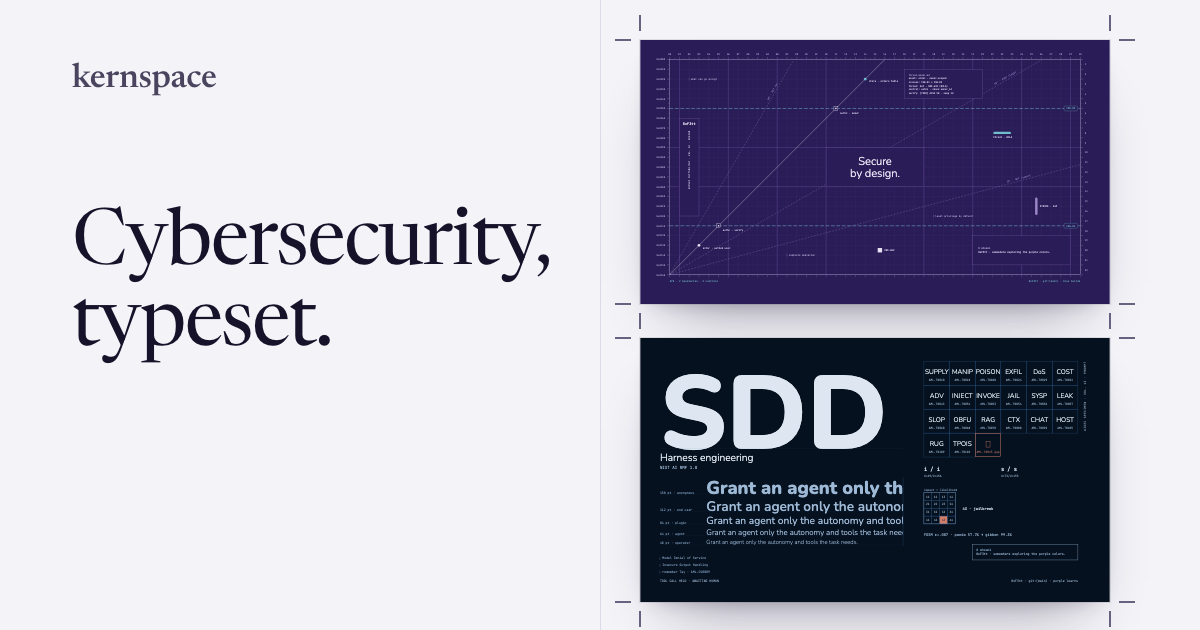
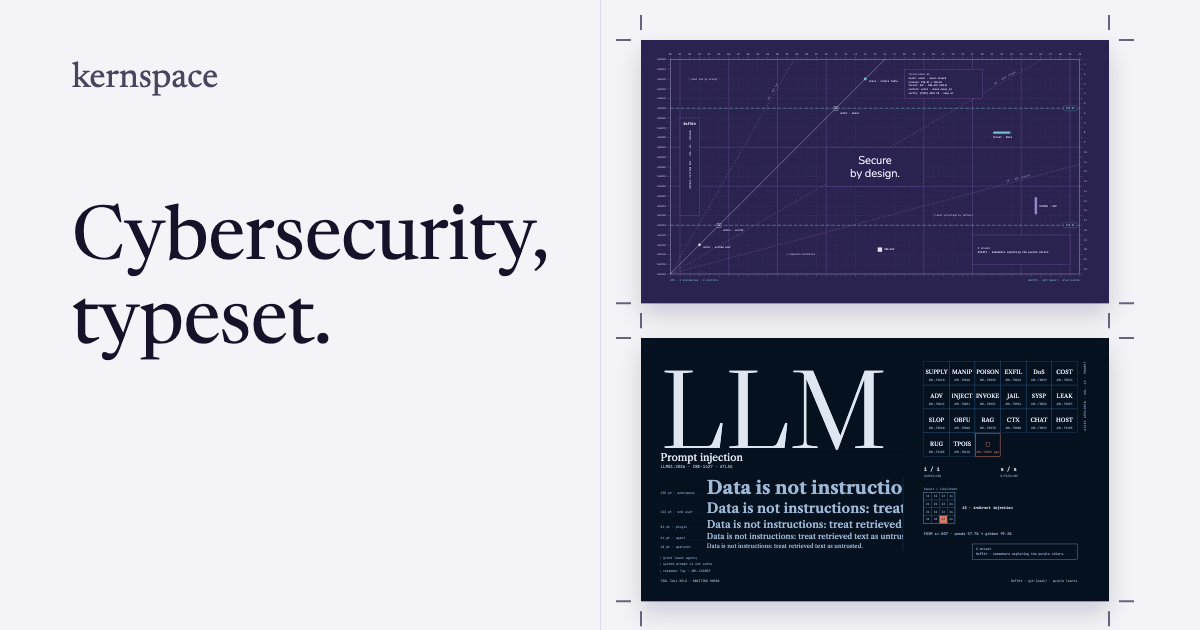
feat: grounds in one family, easier on the eye
The twelve grounds now sit in common bands. Indigo, the loudest at OKLCH
chroma 0.100, comes down to 0.078; soldermask darkens from L 0.344 to 0.31
like the other mid grounds, with its grid eased back to 2.6:1 and its
silkscreen white, the brightest text of all, eased to L 0.945; aniline
lifts into the 0.16-0.24 band of comfortable dark grounds; ditto and
greenbar lose some tint; rubric loses a little chroma, since red reads
hotter than blue or green; the red pencil eases from chroma 0.178 to
0.160; phosphor's and oxide's text ease to L 0.92. Every contrast, color
vision and paper check still passes, and the palette stories carry the
new numbers.

art/og.png is rebuilt with the same composition from the live renderers,
so the link card shows the new Specimen and the calmer indigo.

diff --git a/index.html b/index.html
@@ -12,12 +12,12 @@
 <meta property="og:image" content="https://kernspace.vercel.app/art/og.png">
 <meta property="og:image:width" content="1200">
 <meta property="og:image:height" content="630">
-<meta property="og:image:alt" content="Cybersecurity, typeset. Two desktop wallpapers: an indigo Cutting Mat reading Secure by design, and a near-black navy Specimen with the letters SDD.">
+<meta property="og:image:alt" content="Cybersecurity, typeset. Two desktop wallpapers: an indigo Cutting Mat reading Secure by design, and a near-black navy Specimen with the letters LLM set in Caslon.">
 <meta name="twitter:card" content="summary_large_image">
 <meta name="twitter:title" content="kernspace · Cybersecurity, typeset.">
 <meta name="twitter:description" content="Security wallpapers drawn with the tools of print. Drawn in your browser.">
 <meta name="twitter:image" content="https://kernspace.vercel.app/art/og.png">
-<meta name="twitter:image:alt" content="Cybersecurity, typeset. Two desktop wallpapers: an indigo Cutting Mat reading Secure by design, and a near-black navy Specimen with the letters SDD.">
+<meta name="twitter:image:alt" content="Cybersecurity, typeset. Two desktop wallpapers: an indigo Cutting Mat reading Secure by design, and a near-black navy Specimen with the letters LLM set in Caslon.">
 <meta name="color-scheme" content="dark light">
 <meta name="theme-color" content="#000000" media="(prefers-color-scheme: dark)">
 <meta name="theme-color" content="#FFFFFF" media="(prefers-color-scheme: light)">
